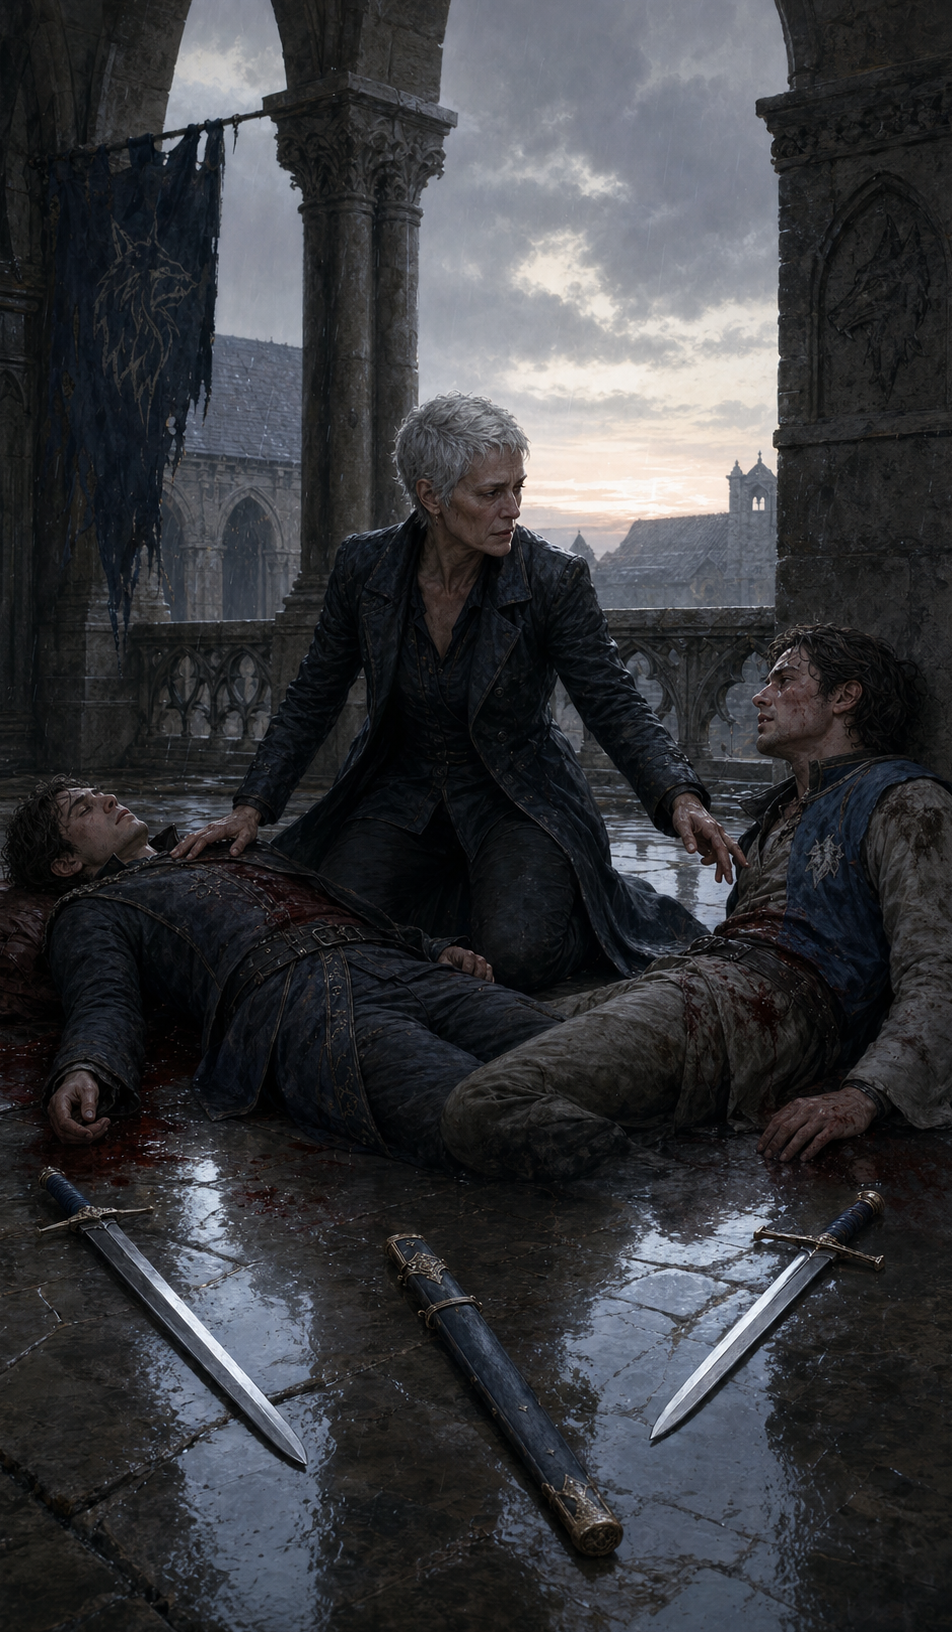
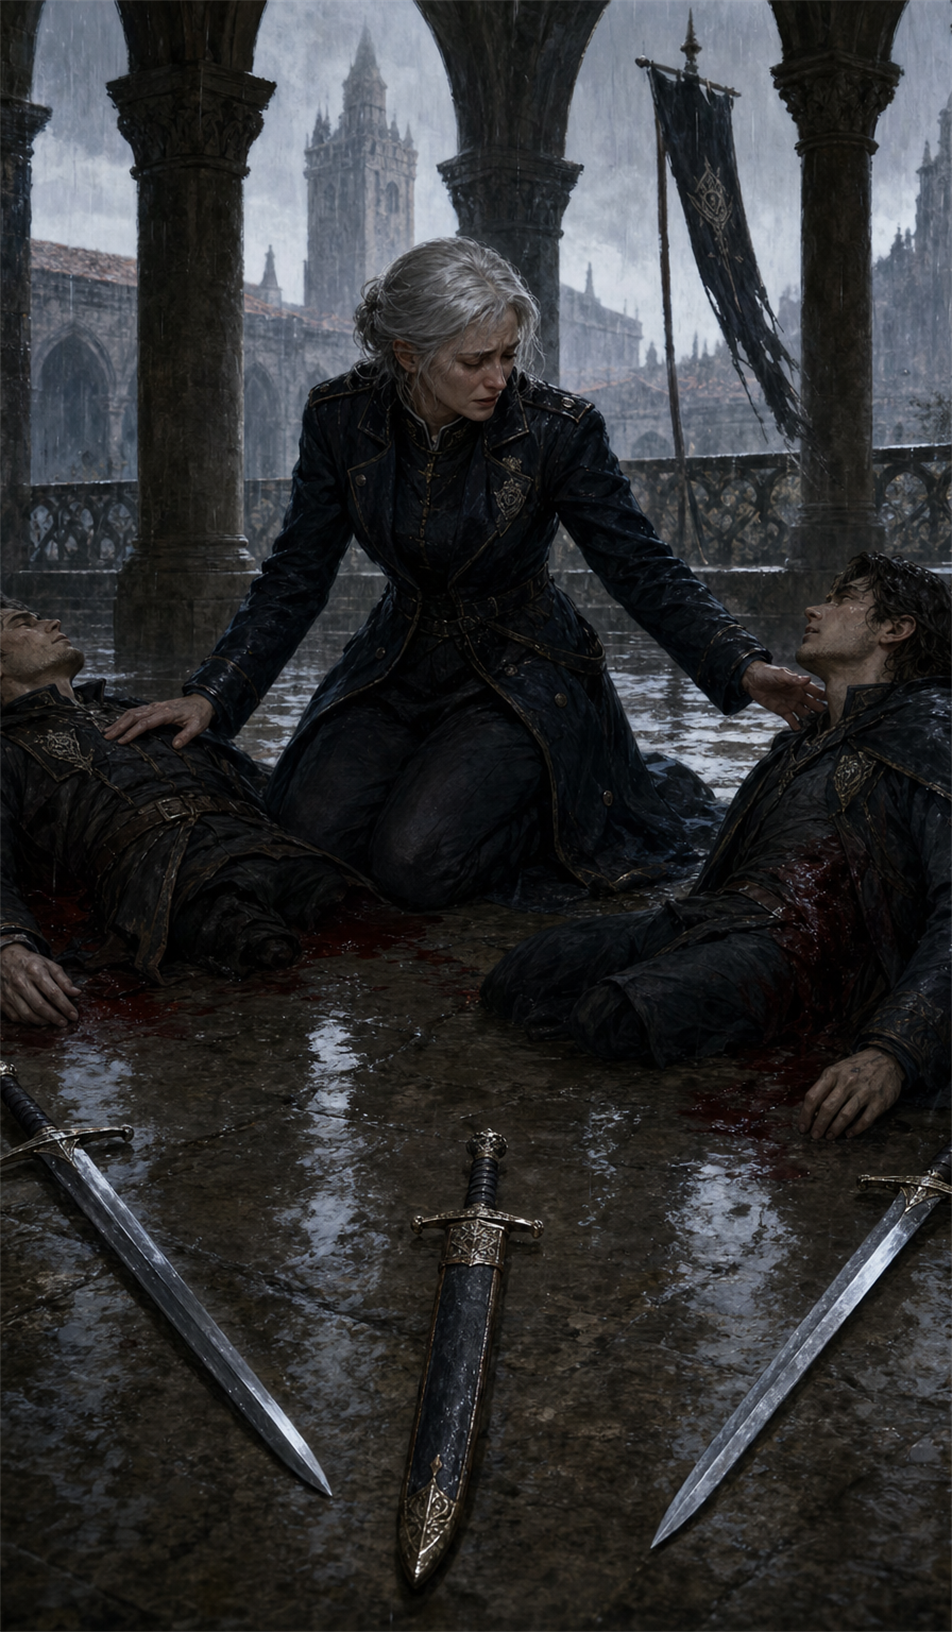
Replace the invalid Three of Swords candidate with an independently regenerated illustration containing three visibly complete swords, and correct its provenance history and technical review.

diff --git a/resources/assets/tarot/artwork-packs/lupus-noctis/records/minor/swords/three.md b/resources/assets/tarot/artwork-packs/lupus-noctis/records/minor/swords/three.md
@@ -90,14 +90,68 @@ Check sword lines, cloister rails, arches and banner edges so none crosses an ey
 
 Exactly three completely visible separated swords, two unsheathed and one sheathed; no other weapon; no weapon touches a body; one dead and one conscious mortally wounded son; restrained blood only; no mutilation, impalement, gore spectacle, physical or spirit wolf, supernatural effect, facial tangency, embedded text, pseudo-runes, frame, watermark, signature, or logo.
 
+## Owner Review and Correction History
+
[1 lines of base64/hex data omitted]
+
+## Targeted Correction Prompt
+
+TARGETED TEXT-ONLY REGENERATION. Do not use the previous image as a reference. Rebuild the tragic cloister aftermath independently.
+
+Create the same emotionally severe Three of Swords narrative:
+
+At cold rain-washed dawn inside a monastery cloister, a former watch captain kneels between her two adult sons after a forbidden duel between opposing factions. One son is dead. The other is mortally wounded but conscious. The mother rests one hand on the dead son's coat and reaches toward the living son. She cannot treat or undo the loss.
+
+Preserve:
+- the older very fair-skinned iron-gray-haired mother in a stripped black-blue military coat;
+- two recognizably related but distinct adult sons;
+- cold rain, wet stone, restrained dark blood and tragic finality;
+- no mutilation, impalement or gore spectacle;
+- ambient-only Lupus Noctis worldbuilding through faction architecture, torn pennant and restrained stone carving.
+
+Rebuild the exact sword arrangement with exactly three COMPLETE sword objects.
+
+Sword 1:
+- one complete unsheathed sword on the lower-left wet stone;
+- clearly visible pommel, grip, guard, full blade and blade tip.
+
+Sword 2:
+- one complete unsheathed sword on the lower-right wet stone;
+- clearly visible pommel, grip, guard, full blade and blade tip.
+
+Sword 3:
+- one complete ceremonial sword fully inserted into its scabbard in the lower-center foreground;
+- the sword's pommel, full grip and crossguard must protrude clearly from the mouth of the scabbard;
+- the entire scabbard body and metal chape must also be visible;
+- the visible hilt and guard must make it unmistakable that this is a sword inside its scabbard, not an empty scabbard.
+
+Keep all three objects physically separated with clear empty wet-stone space between them.
+
+The two unsheathed swords must not have separate scabbards.
+Do not show an empty scabbard.
+Do not hide a sword hilt behind a body, clothing, reflection or another object.
+
+No sword may touch, cross or enter a human body.
+
+Do not include any fourth blade, dagger, knife, belt sword, spear, wall weapon, decorative weapon, weapon-shaped ornament or additional sheath.
+
+Composition:
+Use a low or restrained high-three-quarter triangular composition. The mother remains the emotional center; the two sons extend on opposing diagonals; the three complete swords form a separate broken foreground line. The tragedy must remain intimate, serious and aesthetically controlled rather than becoming a battle or horror poster.
+
+Style:
+Contemporary painted tragic fantasy, modern RPG chapter illustration, natural varied brushwork, believable anatomy, wet cloth, steel, leather, restrained blood, rain and stone. Painted rather than photorealistic or 3D-rendered.
+
+No text, title, number, frame, watermark, signature, logo, pseudo-runes, physical wolf, spirit wolf, supernatural effect, anime or comic cel shading.
+
+Check arches, sword lines, banner edges and rails so none crosses an eye, mouth or central facial feature.
+
 ## Final Candidate
 
 - Path: `studies/A17/three-of-swords.png`
-- Original generated dimensions: `957 × 1643 px`
-- Final dimensions: `952 × 1632 px` (exact `7:12`), produced by centered crop without stretching
[1 lines of base64/hex data omitted]
-- Generation count: **1** initial text-only generation; no correction used
-- Targeted correction prompt: none
-- Technical review: Full-size and `238 × 408` card-size review show the older lean former captain at the emotional center between two recognizably related but distinct adult sons: one dead and one mortally wounded yet conscious. Her hands acknowledge both sons without attempting treatment or creating a heroic solution. Exactly three complete swords form a separate broken line on wet stone: two fully visible unsheathed swords and one fully visible sheathed ceremonial sword. No weapon touches, enters, or crosses a body, and no extra blade, dagger, knife, spear, belt sword, wall weapon, or decorative weapon appears. Dark blood on stone and clothing is narratively proportionate; anatomy remains intact with no mutilation or gore spectacle. The rain-darkened cloister, torn clan pennant, and restrained stone carving carry ambient-only Lupus Noctis worldbuilding; no physical or spirit wolf and no separate large wolf head appear. Faces, eyes, mouths, hands, joints, sword lines, rails, arches, and banner edge remain readable without facial tangencies. Skin, wet cloth, steel, leather, blood, stone, rain, and dawn air separate cleanly; no embedded text, pseudo-runes, accidental tattoos, supernatural effect, pop-fantasy franchise stack, frame, watermark, signature, or logo is visible. The source was decoded and center-cropped without stretching.
+- Original generated dimensions: `1024 × 1536 px`
+- Final dimensions: `952 × 1632 px` (exact `7:12`), produced by centered crop to `896 × 1536 px` followed by uniform high-quality scaling without stretching
[1 lines of base64/hex data omitted]
+- Generation count: **2** text-only generations: one initial generation and one targeted independent regeneration; neither used an attachment or image reference
+- Technical review: Full-size review of the corrected lower foreground proves exactly three complete sword objects. Left unsheathed sword: pommel, grip, guard, full blade, and blade tip are visible. Right unsheathed sword: pommel, grip, guard, full blade, and blade tip are visible. Center fully sheathed ceremonial sword: pommel, full grip, crossguard, scabbard mouth, full scabbard body, and metal chape are visible, making it unmistakably a sword inserted into its scabbard rather than an empty scabbard. All three objects are physically separated by wet stone; the two unsheathed swords have no separate scabbards; no empty scabbard, fourth blade, dagger, knife, belt sword, spear, wall weapon, decorative weapon, weapon-shaped ornament, or additional sheath appears. No sword touches, crosses, or enters a body. The older iron-gray-haired mother remains centered between one dead son and one mortally wounded conscious son; anatomy is intact, blood remains restrained, and the rain-washed cloister, torn pennant, and stone details preserve ambient-only worldbuilding without a physical or spirit wolf. Arches, banner, rails, and sword lines do not cross a central facial feature. No embedded text, pseudo-runes, supernatural effect, gore spectacle, frame, watermark, signature, or logo is visible. The source was decoded, center-cropped, and uniformly normalized without stretching.
 - Generation input: text-only; no attachment or image reference
 - Owner acceptance: **Pending**
